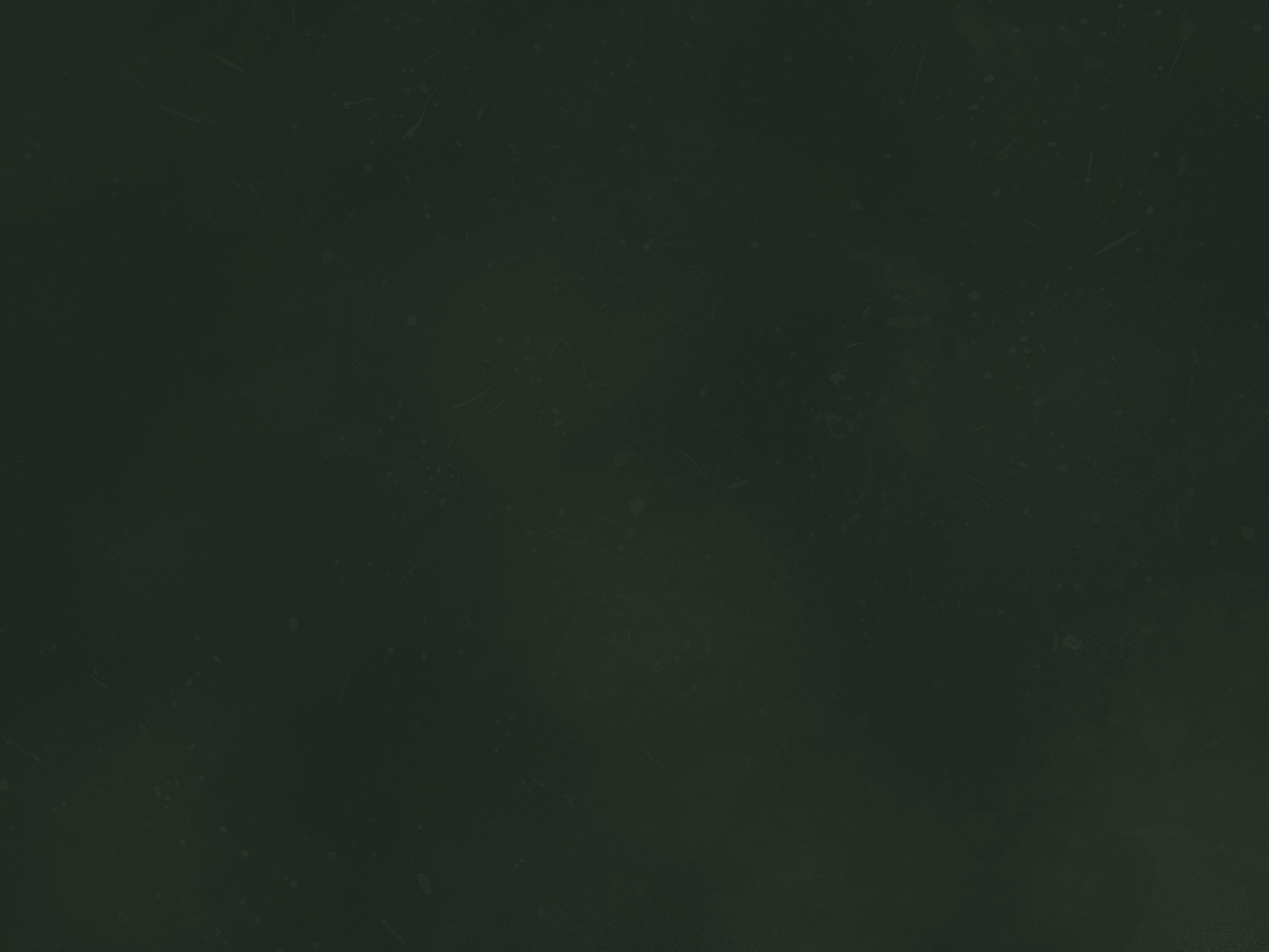
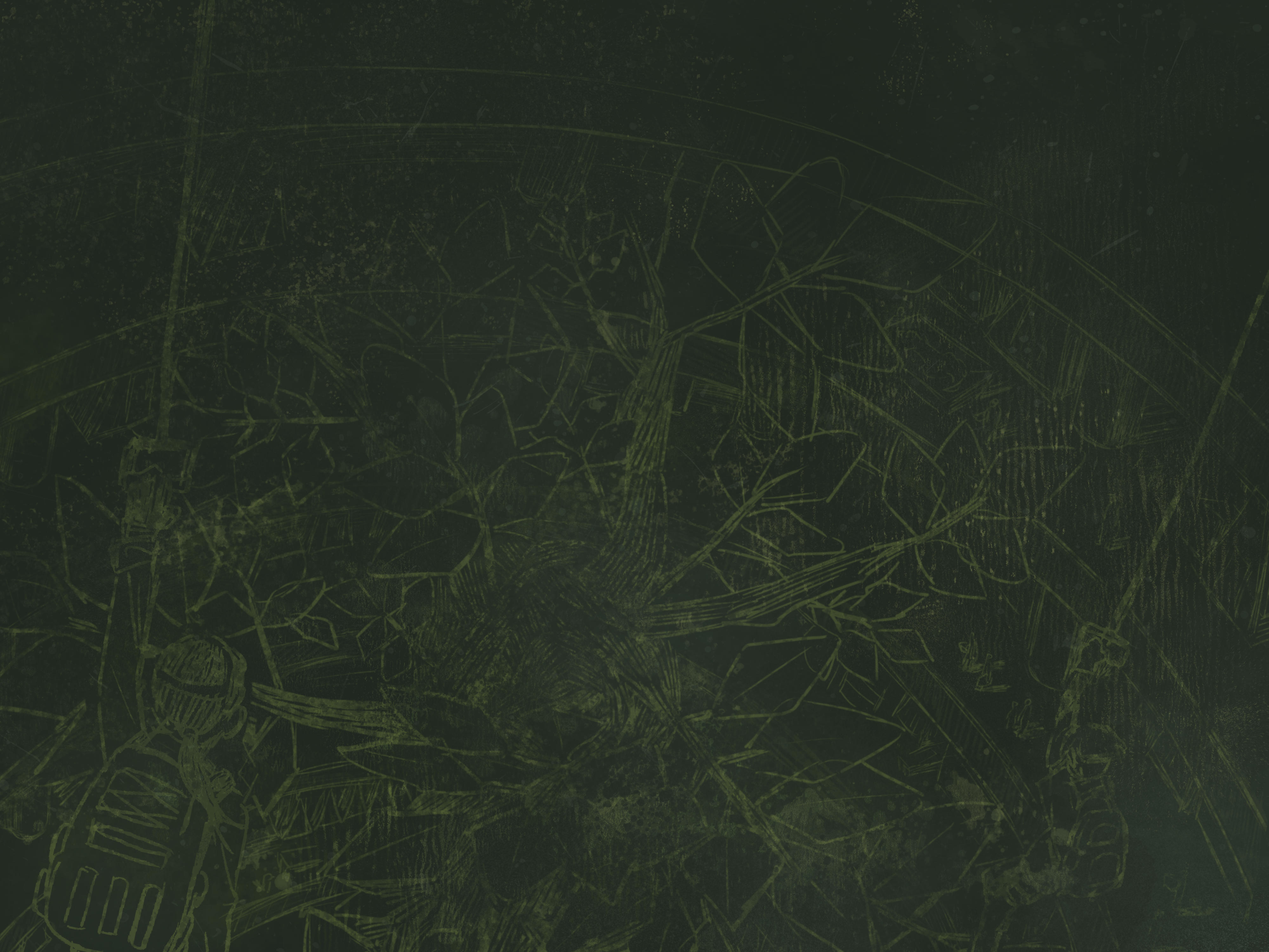
Various changes
- Update background image
- Create animated oxymeter
- Add social media links

diff --git a/templates/home.html b/templates/home.html
@@ -12,10 +12,61 @@
 				>
 					{{ hero.title }}
 				</h1>
-				<p class="relative -mt-6 mb-8 text-2xl">{{ hero.subtitle }}</p>
 
-				<div class="prose text-lg">
-					{{ hero.content|markdownify }}
+				<div class="flex flex-col gap-4 lg:flex-row lg:gap-8 justify-between">
+					<div class="flex flex-col gap-8">
+						<p class="relative -mt-6 text-4xl">{{ hero.subtitle }}</p>
+
+						<div class="prose text-2xl">
+							{{ hero.content|markdownify }}
+						</div>
+						<div
+							class="bg-accent rounded-md px-8 py-4 flex flex-col gap-4 text-center lg:text-left lg:flex-row justify-between text-surface"
+						>
+							<p class="text-lg">
+								Follow Reb for new art, updates, and upcoming events
+							</p>
+							<div>
+								<a href="https://x.com/rebbersome" class="text-2xl">
+									<span class="fa-brands fa-twitter"
+										><span class="sr-only">Rebbersome on Twitter</span></span
+									>
+								</a>
+								<a
+									href="https://www.instagram.com/rebbersome/"
+									class="text-2xl"
+								>
+									<span class="fa-brands fa-instagram"
+										><span class="sr-only">Rebbersome on Instagram</span></span
+									>
+								</a>
+								<a href="https://www.youtube.com/@rebbersome" class="text-2xl">
+									<span class="fa-brands fa-youtube"
+										><span class="sr-only">Rebbersome on YouTube</span></span
+									>
+								</a>
+							</div>
+						</div>
+					</div>
+					<div class="relative size-80 m-auto" id="oxymeter">
+						<div class="size-80 max-w-full absolute state">
+							<img
+								alt="Oxymeter Safe Oxygen Safe Glow"
+								src="/static/images/human-fossil-oxymeter-safe.webp"
+								class="w-full h-full absolute blur-md"
+							/>
+							<img
+								alt="Oxymeter Safe Oxygen Safety Level"
+								src="/static/images/human-fossil-oxymeter-safe.webp"
+								class="w-full h-full absolute"
+							/>
+						</div>
+						<img
+							alt="Oxymeter"
+							src="/static/images/human-fossil-oxymeter.webp"
+							class="size-80 max-w-full absolute"
+						/>
+					</div>
 				</div>
 			</section>
 		{% endwith %}
@@ -62,7 +113,7 @@
 							{{ callout.content|markdownify }}
 						</div>
 					</div>
-					<a class="btn text-2xl" href="{{ callout.href }}"
+					<a class="btn cta text-2xl" href="{{ callout.href }}"
 						>{{ callout.action }}</a
 					>
 				</div>
@@ -146,7 +197,7 @@
 								>${{ callout.price }}</span
 							>
 						{% endif %}
-						<a href="{{ callout.href }}" class="btn text-2xl font-bold"
+						<a href="{{ callout.href }}" class="btn cta text-2xl font-bold"
 							>{{ callout.action }}</a
 						>
 					</div>

diff --git a/static_src/css/input.css b/static_src/css/input.css
@@ -19,10 +19,48 @@
 	--color-surface: #212720;
 	--color-accent: #defb67;
 	--color-citrus: #e5722f;
+
+	--animate-flicker: flicker 3s ease-in-out infinite;
+	@keyframes flicker {
+		0% {
+			opacity: 1;
+		}
+		95% {
+			opacity: 1;
+		}
+		99.99% {
+			opacity: 0;
+		}
+		100% {
+			opacity: 1;
+		}
+	}
+
+	--animate-invert: invert 8s linear infinite;
+	@keyframes invert {
+		0% {
+			filter: hue-rotate(0deg) saturate(100%);
+		}
+
+		73% {
+			filter: hue-rotate(0deg) saturate(100%);
+		}
+
+		74% {
+			filter: hue-rotate(300deg) saturate(30);
+		}
+
+		100% {
+			filter: hue-rotate(300deg) saturate(30);
+		}
+	}
 }
 
 @theme inline {
 	--glow-none: 0 0 #0000;
+	--glow-xs:
+		0 0 2px var(--tw-glow-color, currentColor),
+		0 0 4px var(--tw-glow-color, currentColor);
 	--glow-sm:
 		0 0 4px var(--tw-glow-color, currentColor),
 		0 0 8px var(--tw-glow-color, currentColor);
@@ -39,6 +77,9 @@
 		0 0 72px var(--tw-glow-color, currentColor);
 
 	--inner-glow-none: 0 0 #0000;
+	--inner-glow-xs:
+		inset 0 0 2px var(--tw-inner-glow-color, currentColor),
+		inset 0 0 4px var(--tw-inner-glow-color, currentColor);
 	--inner-glow-sm:
 		inset 0 0 4px var(--tw-inner-glow-color, currentColor),
 		inset 0 0 8px var(--tw-inner-glow-color, currentColor);
@@ -97,7 +138,7 @@
 	}
 
 	.background {
-		@apply fixed w-screen h-screen top-0 left-0 -z-1 bg-blend-soft-light;
+		@apply fixed w-screen h-screen top-0 left-0 -z-1 overflow-hidden;
 		background: url(/static/images/human-fossil-bg.jpg) top left / cover;
 	}
 
@@ -173,6 +214,7 @@
 
 	.btn {
 		@apply bg-accent text-surface px-4 py-2 rounded-xl;
+		@apply glow-none hover:glow-sm hover:glow-accent transition-shadow duration-250;
 	}
 
 	#animation-callout {
@@ -230,6 +272,14 @@
 
 	#past-events .month {
 		@apply text-surface;
+	}
+
+	#oxymeter {
+		@apply absolute;
+	}
+
+	#oxymeter .state {
+		animation: var(--animate-flicker), var(--animate-invert);
 	}
 }
 
